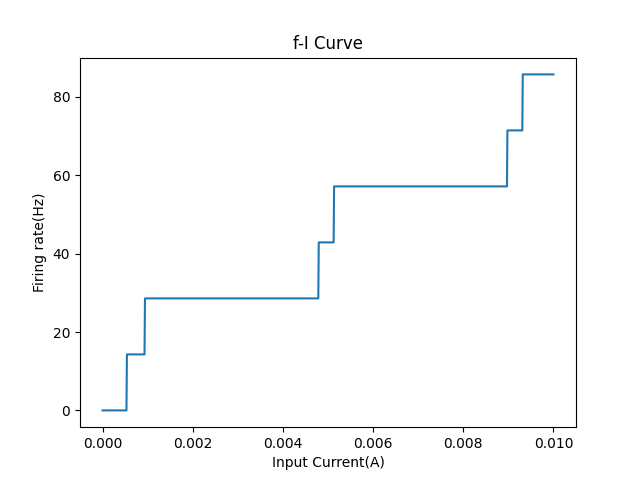
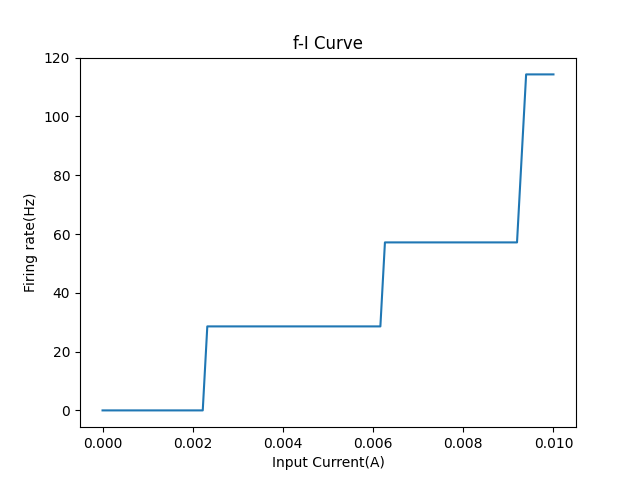
minor fixes

diff --git a/HH_model.py b/HH_model.py
@@ -42,7 +42,7 @@ class HodgkinHuxley():
         self.i_inj = 10.*milli   #TODO: ask about this 10**(-2) conversion is done in cm2?
         
         # self.dt = 0.001
-        self.t  = np.linspace(self.tmin, self.tmax, 1000) # Total duration of simulation [ms]
+        self.t  = np.linspace(self.tmin, self.tmax, 100) # Total duration of simulation [ms]
 
 
     # α and β are the forward and backwards rate, respectively
@@ -97,21 +97,32 @@ class HodgkinHuxley():
     #         return self.i_inj
     #     return 0.0
 
-    def frequency(self,v):
+    def frequency(self,y):
         firing_rate = []
-        self.iinj = np.linspace(0, self.i_inj, 1000)
-        rec_spikes = 0               # record spike times
+        self.iinj = np.linspace(0, self.i_inj, 100)
+        spikes = 0               # record spike times
         rec_passes = 0
         idx =[]
 
         for i in range(len(self.iinj)):
-            # print("voltage",v[i])
-            # print("threshold",self.vthresh)
-            idx.append(np.sign(v[i] - self.vthresh))
-        for j in range(len(self.iinj)):
-            if idx[j-1] != idx[j]:
-                rec_passes += 1
-            firing_rate.append(rec_passes/2/self.tmax)
+            sol = odeint(self.derivatives, y, self.t, args=(self.iinj[i],))    # Solve ODE
+            
+            # print(self.vthresh)
+            # print(sol[i][0])
+
+            if sol[i][0]*milli >= self.vthresh:
+                    spikes +=1
+            firing_rate.append(spikes/self.tmax)
+
+
+        # for i in range(len(self.iinj)):
+        #     # print("voltage",v[i])
+        #     # print("threshold",self.vthresh)
+        #     idx.append(np.sign(v[i] - self.vthresh))
+        # for j in range(len(self.iinj)):
+        #     if idx[j-1] != idx[j]:
+        #         rec_passes += 1
+        #     firing_rate.append(rec_passes/2/self.tmax)
 
 
 
@@ -121,6 +132,7 @@ class HodgkinHuxley():
         #     firing_rate.append(rec_spikes/self.tmax)
         # print(firing_rate)
         return firing_rate
+        
         # self.max_I = []
         # for i in range(len(self.iinj)):
         #     if self.firing_rate[i] ==0:
@@ -128,9 +140,8 @@ class HodgkinHuxley():
         # print(max(self.max_I))
 
 
-    def derivatives(self,y,t):
+    def derivatives(self,y,t,inj):
         der = np.zeros(4)
-        
         v = y[0]
         n = y[1]
         m = y[2]
@@ -145,11 +156,11 @@ class HodgkinHuxley():
         i_l = gL * (v- self.vl )
 
 
-        der[0] = (self.i_inj - i_na - i_k - i_l) / self.c_m   # dv/dt
+        der[0] = (inj - i_na - i_k - i_l) / self.c_m   # dv/dt
         der[1] = (self.alpha_n(v) * (1 - n)) - (self.beta_n(v) * n)    # dn/dt
         der[2] = (self.alpha_m(v) * (1 - m)) - (self.beta_m(v) * m)    # dm/dt
         der[3] = (self.alpha_h(v) * (1 - h)) - (self.beta_h(v) * h)    # dh/dt
-        
+
         return der
 
     def Main(self):
@@ -161,22 +172,22 @@ class HodgkinHuxley():
         # print(self.m_inf(v))
         # print(self.h_inf(v))
 
-        sol = odeint(self.derivatives, y, t)    # Solve ODE
-        v = sol[:,0]*milli
+        sol = odeint(self.derivatives, y, t, args=(self.i_inj,))    # Solve ODE
+        vp = sol[:,0]*milli
         n = sol[:,1]
         m = sol[:,2]
         h = sol[:,3]
 
-        firing_rate = self.frequency(v)
+        firing_rate = self.frequency(y)
 
-        # ax = plt.subplot()
-        # ax.plot(t, v)
-        # ax.set_xlabel('Time (s)')
-        # ax.set_ylabel('Membrane potential (V)')
-        # ax.set_title('Neuron potential')
-        # plt.grid()
-        # plt.savefig('Neuron Potential')
-        # plt.show()
+        ax = plt.subplot()
+        ax.plot(t, vp)
+        ax.set_xlabel('Time (s)')
+        ax.set_ylabel('Membrane potential (V)')
+        ax.set_title('Neuron potential')
+        plt.grid()
+        plt.savefig('Neuron Potential')
+        plt.show()
 
         # ax = plt.subplot()
         # ax.plot(t, n, 'b', label='Potassium Channel: n')
@@ -192,9 +203,9 @@ class HodgkinHuxley():
 
         # # # Trajectories with limit cycles
         # ax = plt.subplot()
-        # ax.plot(v, n, 'b', label='V - n')
-        # ax.plot(v, m, 'g', label='V - m')
-        # ax.plot(v, h, 'r', label='V - h')
+        # ax.plot(vp, n, 'b', label='V - n')
+        # ax.plot(vp, m, 'g', label='V - m')
+        # ax.plot(vp, h, 'r', label='V - h')
         # ax.set_ylabel('Gating value')
         # ax.set_xlabel('Voltage (V)')
         # ax.set_title('Limit cycles')

diff --git a/Markov_Model.py b/Markov_Model.py
@@ -8,7 +8,7 @@ class Markov():
         self.v = 0.
         self.tmin = 0.
         self.tmax = 35.    
-        self.t  = np.linspace(self.tmin, self.tmax, 1000) # Total duration of simulation [ms]
+        self.t  = np.linspace(self.tmin, self.tmax, 1000) # Total duration of simulation [s]
 
     def error(self,accepted,experiment):
         err = (experiment - accepted)/accepted *100
